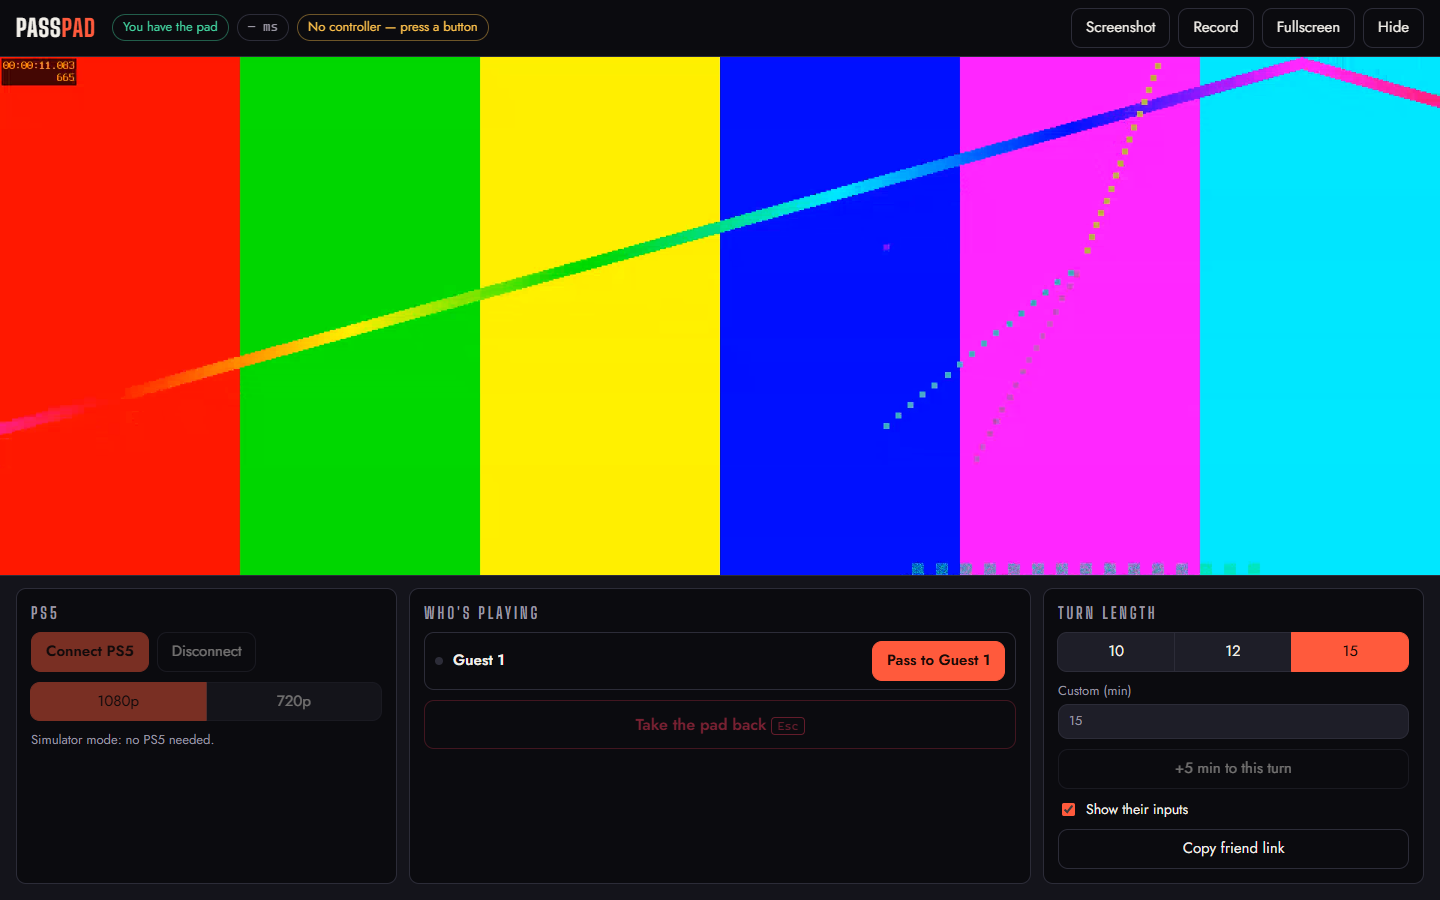
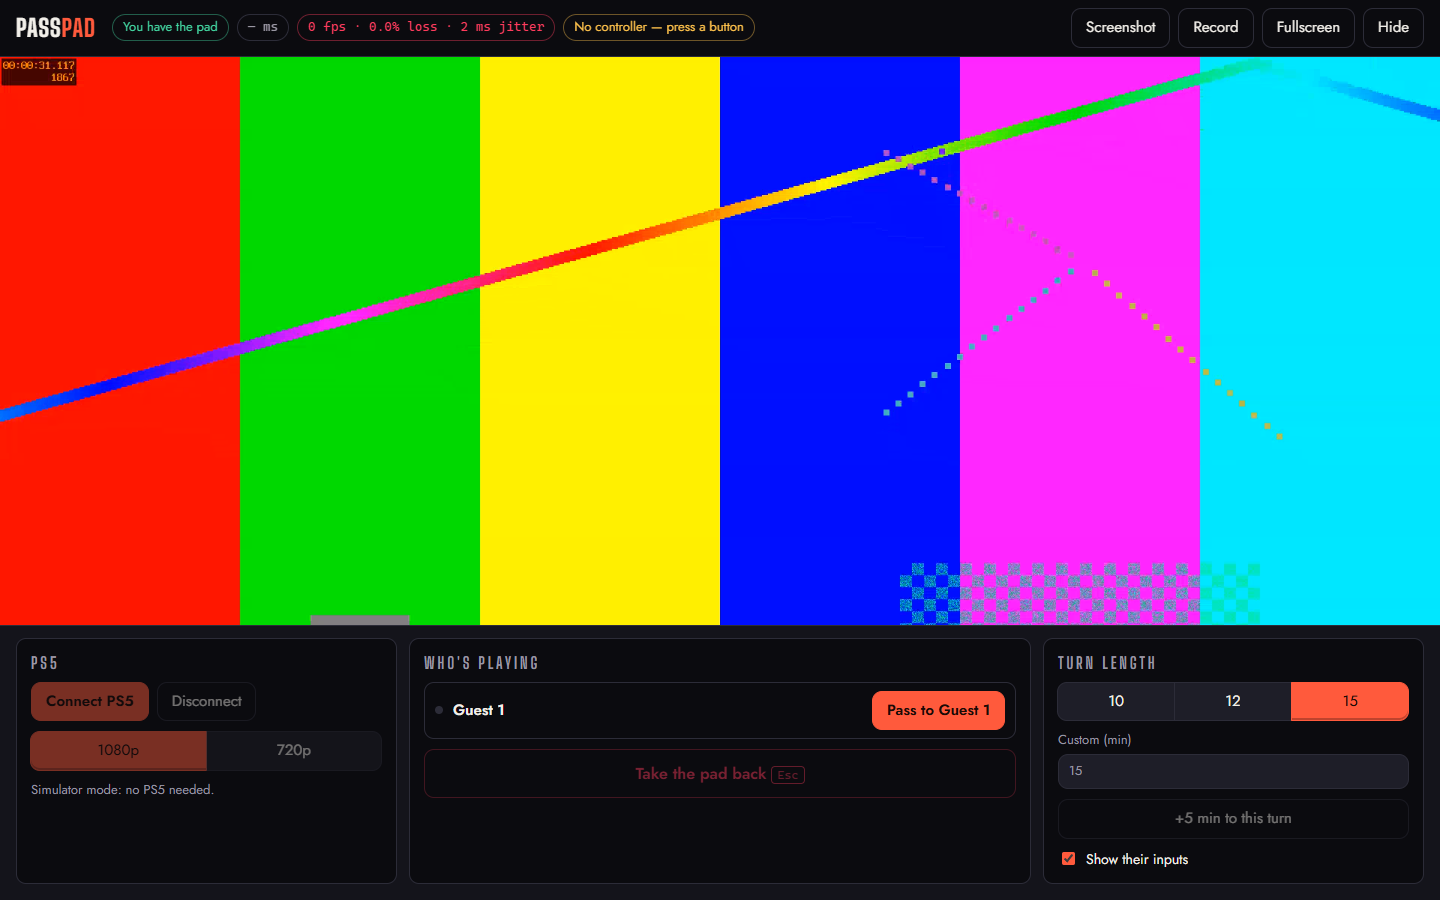
perf: cut input lag and video latency (v0.2.1)
- send input changes on the next 4 ms sample instead of batching up to 8 ms
- TCP_NODELAY and no per-message deflate on the control socket
- quantize sticks/triggers to the PS5's 8-bit resolution (drops jitter-only packets)
- heartbeat 100 ms (was 200), stall keyframe after 450 ms (was 700)
- MediaMTX writeQueueSize 256 (bounded stale backlog, keyframe still fits)
- server process at AboveNormal priority
- live fps / loss / jitter chip
- CHANGELOG.md with notes for 0.2.0 and 0.2.1; releases publish their section

diff --git a/public/js/input.js b/public/js/input.js
@@ -4,10 +4,16 @@ import { isLayoutKey, mapKeys, PAD_BUTTONS } from './keymap.js';
 import { MouseLook } from './mouse-look.js';
 import { PressLatch } from './press-latch.js';
 
-/** Input is sampled every 4 ms; changes are sent at most every 8 ms, unchanged state every 200 ms. */
+/**
+ * Input is sampled every 4 ms and a change goes out on the very next sample (no batching delay).
+ * Unchanged state is repeated every 100 ms so a lost or late packet heals quickly; chiaki-ng
+ * releases everything after 500 ms of silence.
+ */
 const POLL_MS = 4;
-const MIN_SEND_MS = 8;
-const HEARTBEAT_MS = 200;
+const HEARTBEAT_MS = 100;
+/** The PS5 reads sticks as 8-bit values: anything finer is noise that would only cost packets. */
+const STICK_STEPS = 127;
+const quantize = (v) => Math.round(v * STICK_STEPS) / STICK_STEPS;
 /** Shorter taps (and clicks) are held this long so they survive sampling. */
 const MIN_PRESS_MS = 80;
 /** Radial dead zone for off-brand sticks; the guest can change it in Settings. */
@@ -77,7 +83,11 @@ function sample(keys, mouse, now) {
     right = stronger(right, deadzone(pad.axes[2] ?? 0, pad.axes[3] ?? 0));
   }
   for (const name of Object.keys(triggers)) if (buttons[name]) triggers[name] ||= 1;
-  return { buttons, triggers, sticks: { lx: left[0], ly: left[1], rx: right[0], ry: right[1] } };
+  return {
+    buttons,
+    triggers: { l2: quantize(triggers.l2), r2: quantize(triggers.r2) },
+    sticks: { lx: quantize(left[0]), ly: quantize(left[1]), rx: quantize(right[0]), ry: quantize(right[1]) },
+  };
 }
 
 const sameFrame = (a, b) => a && b && new Uint8Array(a).every((byte, i) => byte === new Uint8Array(b)[i]);
@@ -182,7 +192,7 @@ export function startInput({ active, send, layout, screen, onDrivingChange = () 
     if (tabHeld) state.buttons.touchpad = true;
     const frame = encodeInput(state);
     const changed = !sameFrame(frame, lastFrame);
-    if ((changed && now - lastSentAt >= MIN_SEND_MS) || now - lastSentAt >= HEARTBEAT_MS) {
+    if (changed || now - lastSentAt >= HEARTBEAT_MS) {
       send(frame);
       lastFrame = frame;
       lastSentAt = now;

diff --git a/public/js/app.js b/public/js/app.js
@@ -54,6 +54,7 @@ function connect() {
   state.socket = socket;
   socket.addEventListener('open', () => {
     state.attempt = 0;
+    send({ type: 'ping', t: performance.now() });
   });
   socket.addEventListener('close', () => {
     if (state.attempt === 4)
@@ -376,9 +377,29 @@ const video = {
 };
 
 const stall = new StallWatch();
+let lastStats = null;
 setInterval(async () => {
   const stats = await video.session?.videoStats();
-  if (stats && stall.update(performance.now(), stats)) send({ type: 'keyframe' });
+  if (!stats) {
+    $('net-chip').hidden = true;
+    lastStats = null;
+    return;
+  }
+  if (stall.update(performance.now(), stats)) send({ type: 'keyframe' });
+  // fps, loss and jitter over the last half second: the three numbers that explain "it feels laggy".
+  if (lastStats) {
+    const seconds = (stats.timestamp - lastStats.timestamp) / 1000 || 0.5;
+    // Browsers report their own smoothed fps; fall back to counting decoded frames.
+    const fps = Math.round(stats.framesPerSecond ?? (stats.framesDecoded - lastStats.framesDecoded) / seconds);
+    const received = stats.packetsReceived - lastStats.packetsReceived;
+    const lost = Math.max(0, stats.packetsLost - lastStats.packetsLost);
+    const loss = received + lost > 0 ? (lost / (received + lost)) * 100 : 0;
+    const jitter = Math.round((stats.jitter ?? 0) * 1000);
+    const tone = loss > 3 || fps < 40 ? 'bad' : loss > 0.5 || fps < 55 || jitter > 30 ? 'warn' : 'ok';
+    setChip('net-chip', `${fps} fps · ${loss.toFixed(1)}% loss · ${jitter} ms jitter`, tone);
+    $('net-chip').hidden = false;
+  }
+  lastStats = stats;
 }, 500);
 
 // ---------- simulator and input visualizer ----------

diff --git a/src/adapters/ws/control-gateway.ts b/src/adapters/ws/control-gateway.ts
@@ -57,7 +57,8 @@ export class ControlGateway {
 
   constructor(options: ControlGatewayOptions) {
     this.#o = options;
-    const wss = new WebSocketServer({ noServer: true, maxPayload: 4096 });
+    // No compression: frames are 15 bytes, and deflate only adds CPU time per message.
+    const wss = new WebSocketServer({ noServer: true, maxPayload: 4096, perMessageDeflate: false });
     options.server.on('upgrade', (req: IncomingMessage, socket, head) => {
       const peer = peerOf(req, options.identity);
       const path = URL.parse(req.url ?? '/', 'http://localhost')?.pathname;
@@ -65,6 +66,8 @@ export class ControlGateway {
         socket.end('HTTP/1.1 403 Forbidden\r\n\r\n');
         return;
       }
+      // Nagle's algorithm would hold small input frames back up to ~40 ms waiting to batch them.
+      if ('setNoDelay' in socket && typeof socket.setNoDelay === 'function') socket.setNoDelay(true);
       wss.handleUpgrade(req, socket, head, (ws) => this.#accept(ws, peer));
     });
   }

diff --git a/public/index.html b/public/index.html
@@ -14,6 +14,7 @@
       <p class="chip" id="who-chip" role="status">Connecting…</p>
       <p class="chip mono" id="rtt-chip" title="Round trip to the host laptop">— ms</p>
       <p class="chip mono" id="quality-chip" title="Stream quality" hidden></p>
+      <p class="chip mono" id="net-chip" title="Video: frames per second · packets lost · jitter" hidden></p>
       <p class="chip" id="pad-chip" title="Controller">No controller</p>
       <span class="spacer"></span>
       <button class="ghost" id="shot" type="button" title="Save a screenshot">Screenshot</button>

diff --git a/public/js/video-player.js b/public/js/video-player.js
@@ -74,7 +74,7 @@ export class WhepSession {
  * ask for a keyframe (the picture froze, or the browser itself asked with a PLI).
  */
 export class StallWatch {
-  constructor({ stallMs = 700, resendMs = 3000 } = {}) {
+  constructor({ stallMs = 450, resendMs = 2000 } = {}) {
     this.stallMs = stallMs;
     this.resendMs = resendMs;
     this.lastRequestAt = Number.NEGATIVE_INFINITY;

diff --git a/CHANGELOG.md b/CHANGELOG.md
@@ -1,0 +1,45 @@
+# Patch notes
+
+## v0.2.1 — less lag
+
+- **Faster controls:** every button press and stick move is sent the instant it happens, with
+  no more waiting up to 8 ms to batch it.
+- **No more network batching:** turned off the TCP setting (Nagle's algorithm) that could hold
+  small input messages back by up to ~40 ms.
+- **Less wasted traffic:** stick movements are rounded to the precision the PS5 actually reads, so
+  tiny wobbles from cheap controllers no longer flood the connection.
+- **Quicker recovery:** if a packet goes missing, the controller state is resent within 100 ms
+  (was 200 ms).
+- **Frozen picture fixed faster:** a stuck video asks for a fresh frame after 0.45 s (was 0.7 s).
+- **Less stale video:** the video server keeps a shorter backlog, so after a hiccup you see what's
+  happening now instead of catching up on old frames.
+- **Snappier host laptop:** the PassPad server now runs at higher priority, like the video service.
+- **New connection meter:** a chip at the top shows fps, packet loss and jitter, green, amber or
+  red, so you can tell whether lag comes from the internet or the PS5.
+
+## v0.2.0 — PassPad is born
+
+The first version of PassPad, a private fork of PlayGTA by
+[@germanfndez](https://github.com/germanfndez).
+
+- **Share your PS5 with 1–4 friends** over Tailscale, right in the browser. Nothing is opened to
+  the internet.
+- **You stay in charge:** friends' controllers are locked until you pass them the pad. A
+  countdown (10/12/15 minutes or your own length) hands it back automatically, and `Esc` takes it
+  back instantly.
+- **Ask for the pad:** friends can request a turn, and the host hears a chime.
+- **1080p at 60 fps**, dropping to 720p by itself if 1080p won't start.
+- **Everyone types their own name** when they open the page.
+- **One-click setup for the host:** START-PassPad installs Tailscale, finds the PS5, sets up the
+  firewall, walks through pairing and adds a desktop shortcut. Extras: `doctor`, `setup`,
+  `update`, `autostart`.
+- **One-click join for friends:** JOIN-PassPad.
+- **Screenshots and clips** from the page.
+- **Works with off-brand controllers:** Back+Y, L3+R3 or Tab act as the touchpad, and the stick
+  dead zone is adjustable.
+- **When something breaks:** a panel with "Copy details" and "Report on GitHub" (passwords are
+  removed automatically), plus logs saved on the host.
+- **Polished UI:** hover and click animations, a live input view for the host, works on small
+  screens.
+- **Lighter on memory:** fixed an audio leak, clips are capped at 5 minutes, and the video
+  decoder is freed when the picture stops.
